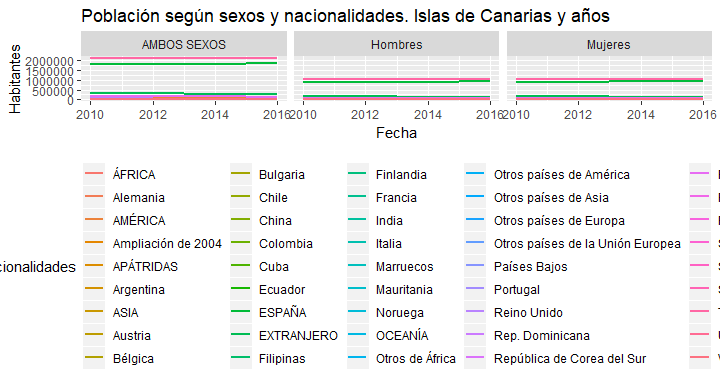
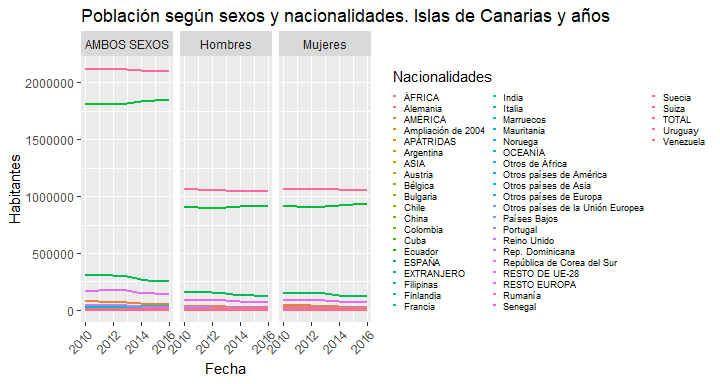
README.md update

diff --git a/README.md b/README.md
@@ -452,7 +452,9 @@ pop_data <- istacbase(islas = "Canarias", istacbase_table = "dem.pob.exp.res.40"
 ggplot(pop_data, aes(x = fecha, y = valor, colour = Nacionalidades)) +
   geom_line(size = 1) +
   labs(title = "Población según sexos y nacionalidades. Islas de Canarias y años", x = "Fecha", y = "Habitantes") +
-  theme(legend.position="bottom") +
+  theme(legend.key=element_blank(), legend.key.size=unit(1,"point"),
+        legend.text=element_text(size=7), axis.text.x = element_text(angle = 45, hjust = 1)) +
+  guides(colour=guide_legend(nrow=20)) +
   facet_wrap(~ Sexos)
 ```
 
